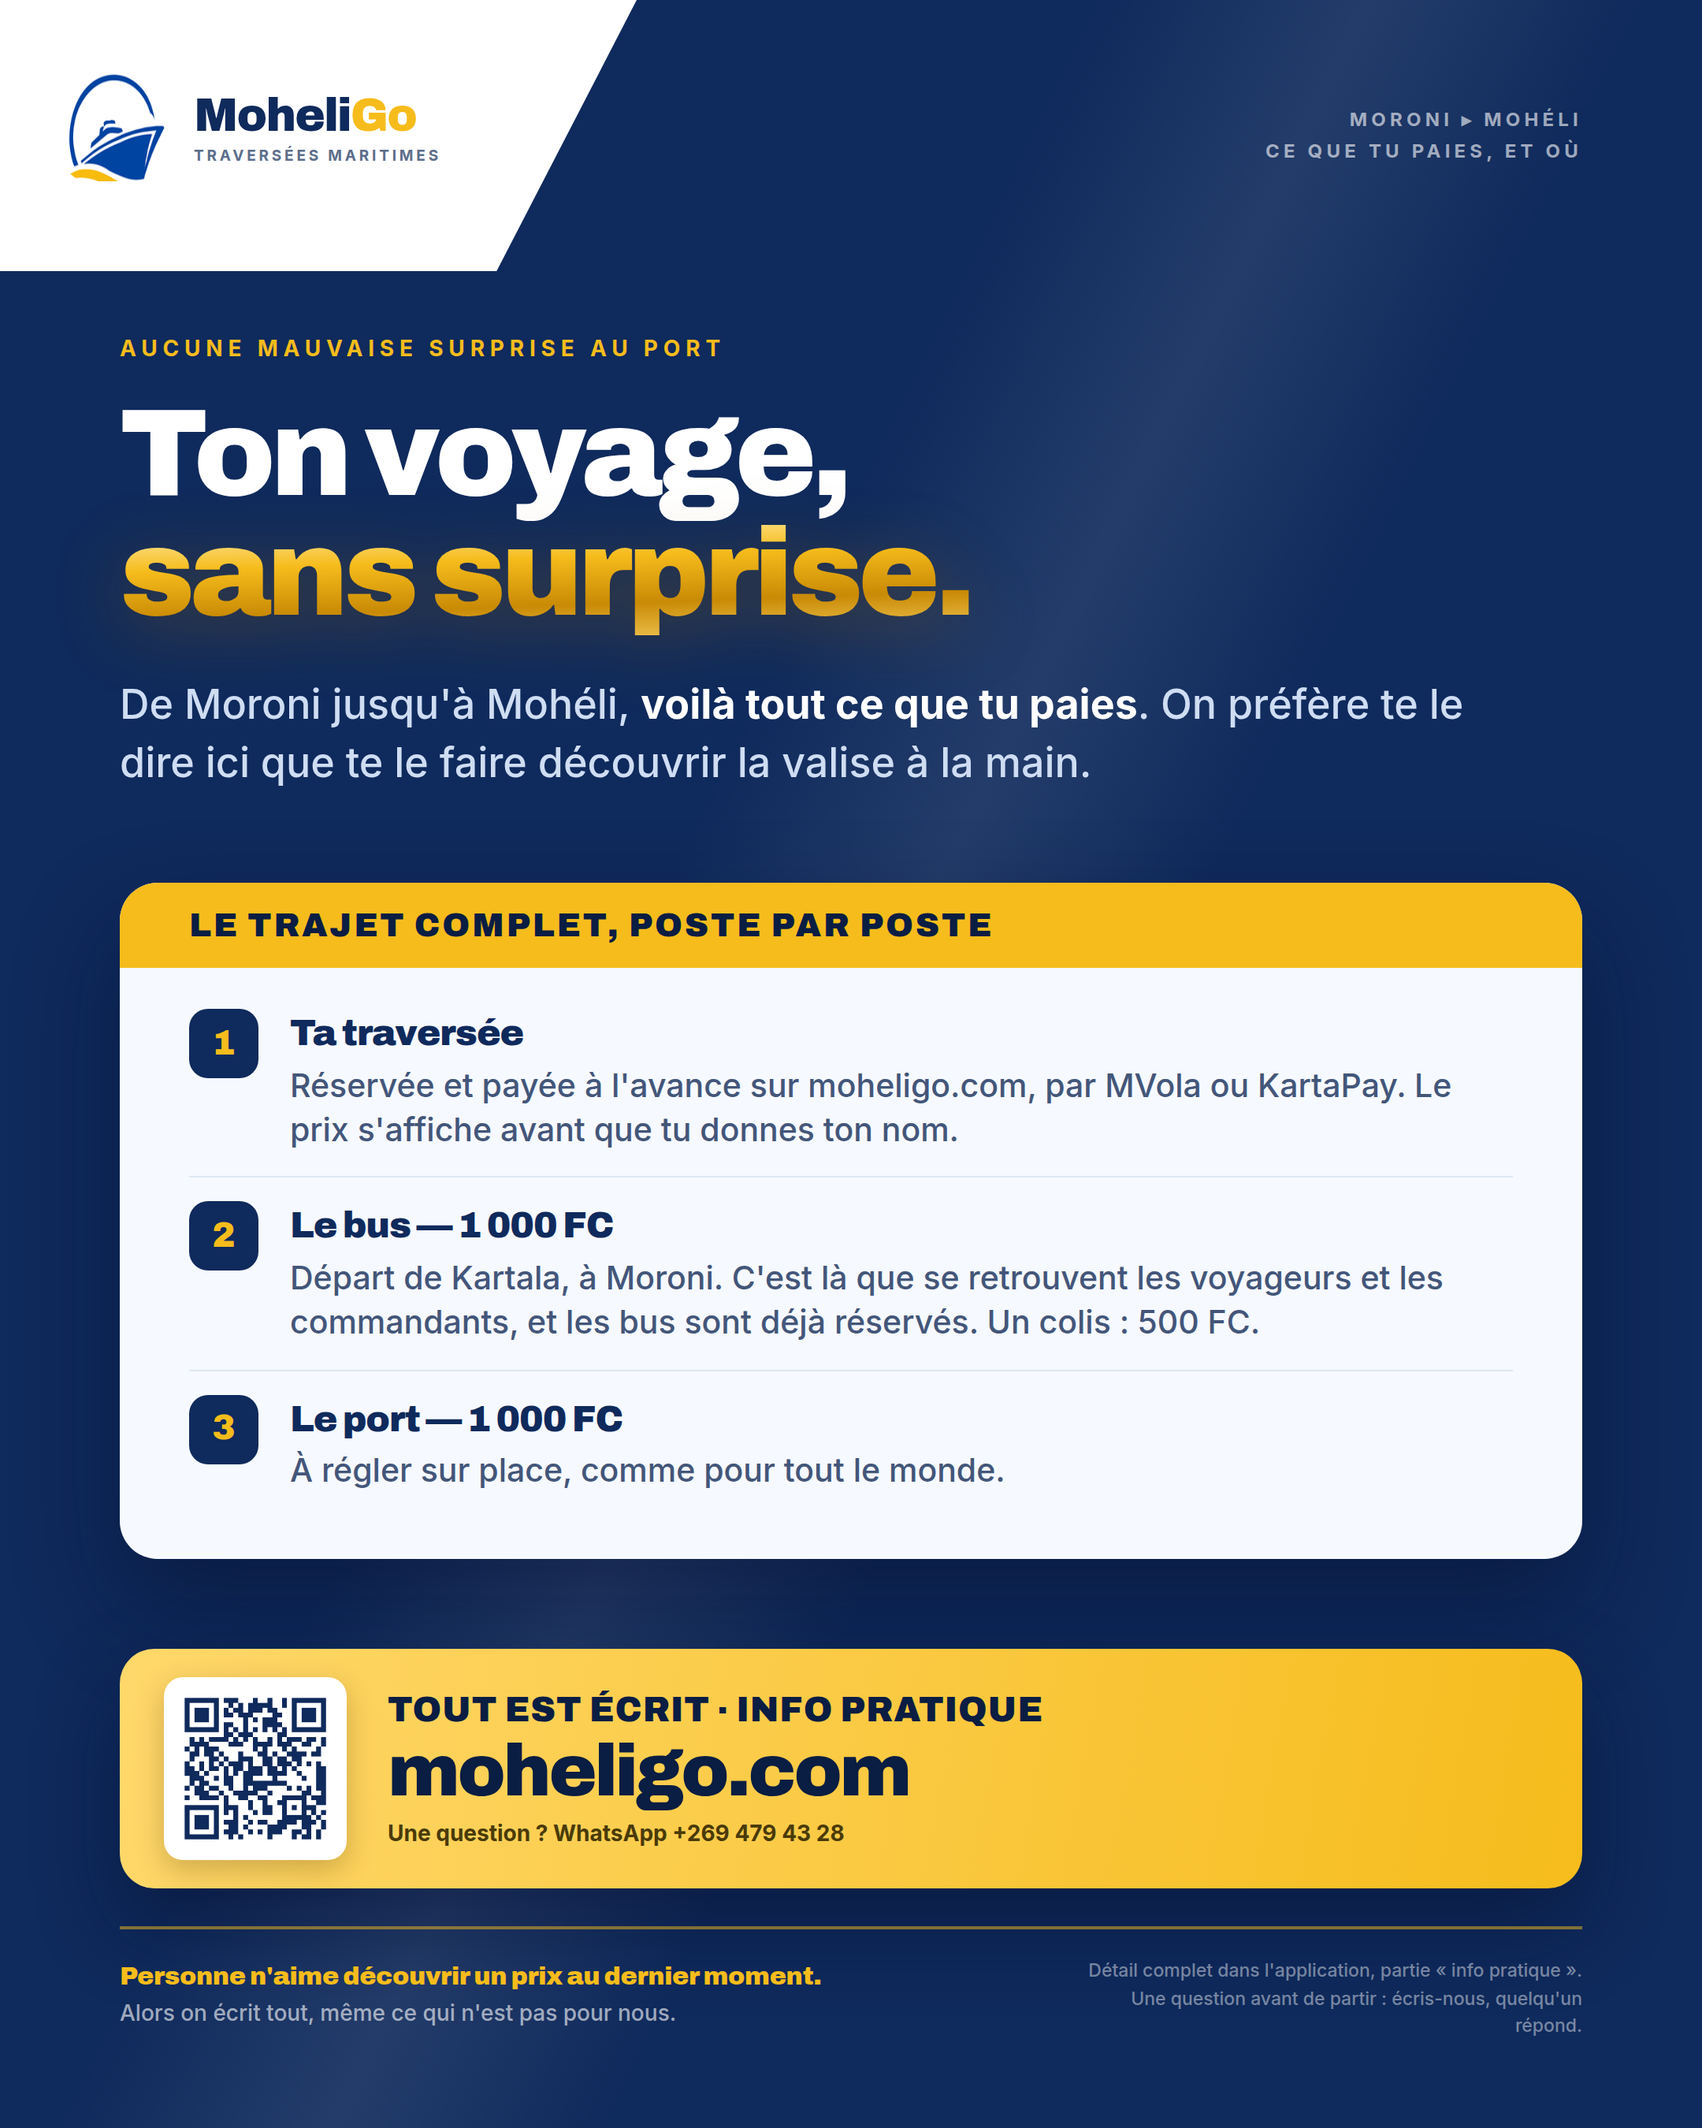
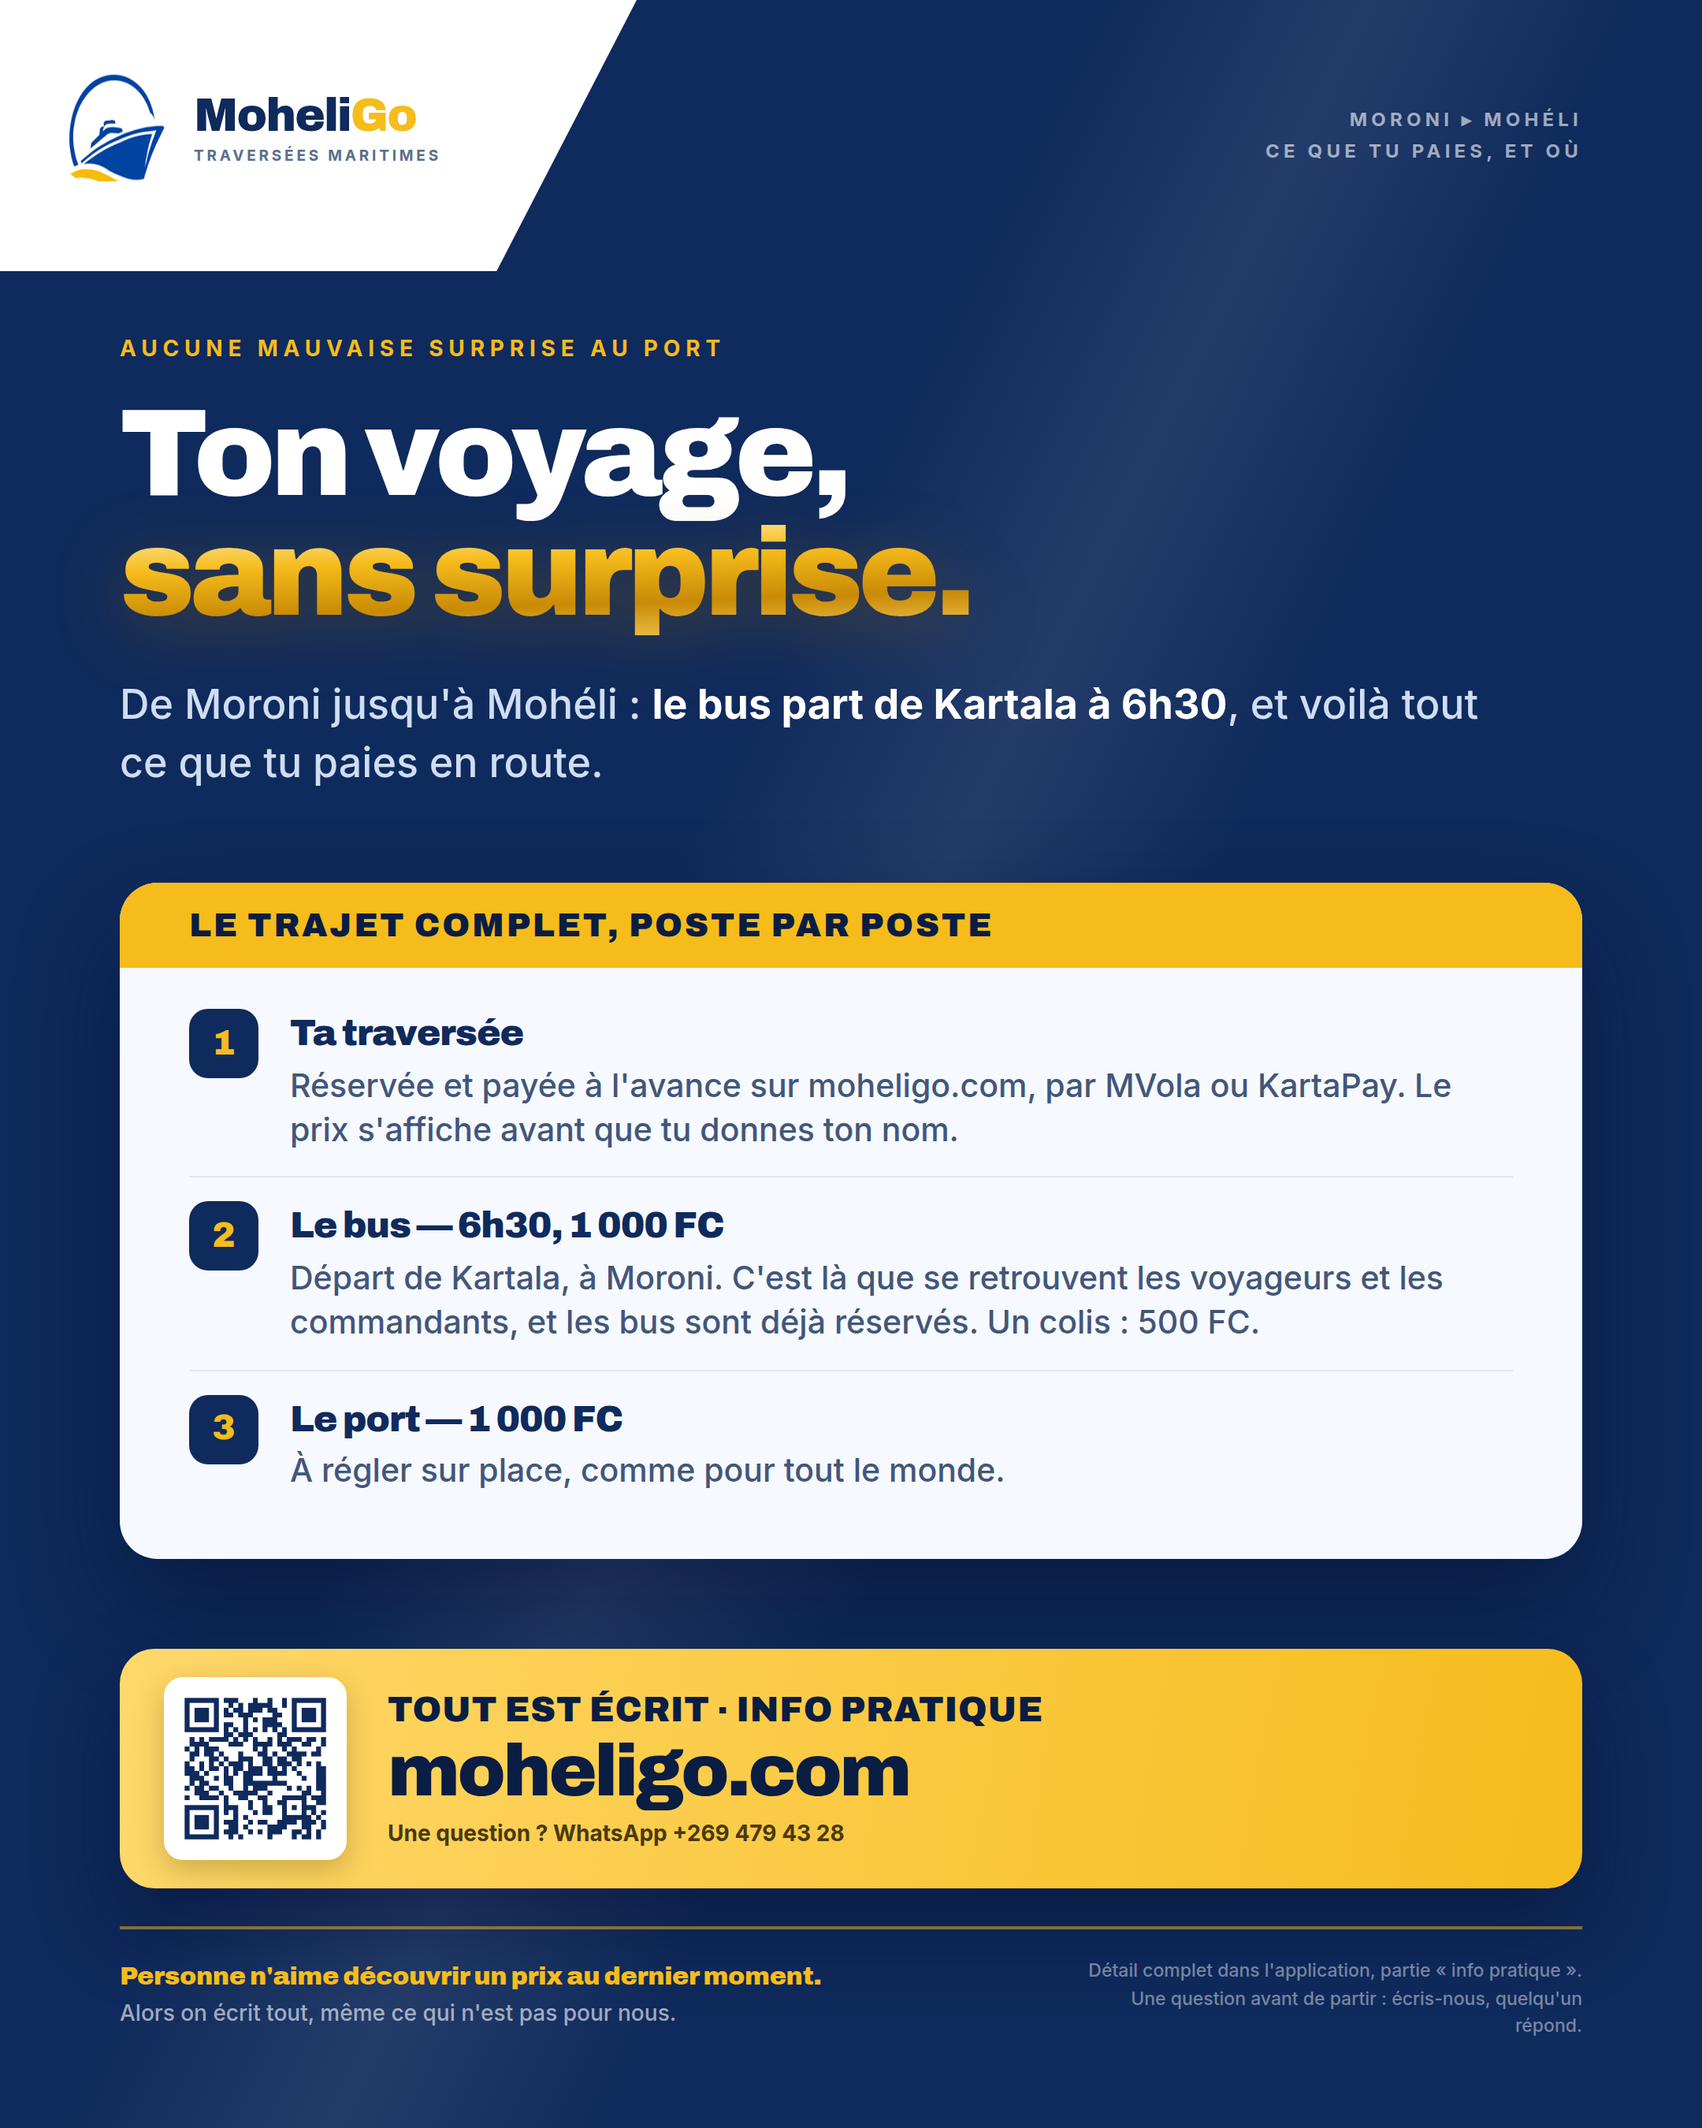
L'heure du bus est 6h30 — et l'attente a evite une vraie erreur
Le patron tranche : le bus part a 6h30.

Dans la conversation WhatsApp montree plus tot, la reponse donnee au client etait
« 7h00 » — qui est en fait l'heure de la VEDETTE, celle imprimee sur la carte
d'embarquement. Un voyageur arrive a 7h a Kartala aurait rate son bus, et sa
traversee avec. Si j'avais imprime « 7h00 » sur un visuel diffuse a des centaines
de personnes, on aurait industrialise l'erreur.

- flyer37-vraiprix distingue desormais les deux heures : 6h30 le bus, l'heure du
  billet la vedette. L'accroche du texte de publication porte l'heure.
- la regle du § 11 (jamais un horaire dont on n'est pas sur) vient de payer pour
  la premiere fois de facon mesurable, et c'est ecrit dans la memoire.
- second enseignement consigne : repondre a la main cent fois finit par produire
  une erreur. Une information juste, ecrite une fois au bon endroit, vaut mieux
  que cent reponses de memoire.

Claude-Session: https://claude.ai/code/session_01BYJ87ihntXtVLQBUE1Jkoy

Changed region(s): [[0.062, 0.3111, 0.8685, 0.3733], [0.2792, 0.56, 0.4343, 0.5911]]

diff --git a/moheligo/pub/flyers/flyer37-vraiprix-fb.html b/moheligo/pub/flyers/flyer37-vraiprix-fb.html
@@ -20,10 +20,14 @@
      renonce en lisant ce visuel aurait renoncé au port — en colère, et en le
      racontant. La clarté ne fait pas fuir : c'est l'inconnu qui fait fuir.
 
-     ⚠ AUCUNE HEURE SUR CE VISUEL. Le patron a répondu « 7h00 » à la question
-     « le bus part à quelle heure ? », mais la carte d'embarquement affiche aussi
-     07:00 pour la vedette : je ne sais pas si c'est la même heure ou une
-     confusion. On n'imprime pas un horaire dont on n'est pas sûr (§ 11).
+     ✅ L'HEURE, TRANCHÉE PAR LE PATRON LE 23/08/2026 : **le bus part à 6h30**.
+     J'avais eu raison d'attendre : dans la conversation WhatsApp, la réponse
+     donnée au client était « 7h00 » — qui est en réalité l'heure de la VEDETTE,
+     celle imprimée sur la carte d'embarquement. Un client qui serait arrivé à 7h
+     à Kartala aurait raté son bus, et sa traversée avec.
+     ⚠ C'est exactement pourquoi on n'imprime jamais un horaire dont on n'est
+     pas sûr (§ 11) — et pourquoi une heure juste, écrite une fois, vaut mieux
+     que cent réponses données à la main.
 
      📌 CE VISUEL EST PROVISOIRE : si le patron décide le forfait tout compris
      (un seul paiement en ligne), il faudra le refaire — et ce sera une bien
@@ -124,8 +128,8 @@ body { width:1080px; height:1350px; font-family:'Inter',sans-serif; -webkit-font
   <div class="sur">AUCUNE MAUVAISE SURPRISE AU PORT</div>
   <div class="acc">Ton voyage,<span>sans surprise.</span></div>
 
-  <div class="dit">De Moroni jusqu'à Mohéli, <b>voilà tout ce que tu paies</b>.
-    On préfère te le dire ici que te le faire découvrir la valise à la main.</div>
+  <div class="dit">De Moroni jusqu'à Mohéli : <b>le bus part de Kartala à
+    6h30</b>, et voilà tout ce que tu paies en route.</div>
 
   <div class="carte">
     <div class="bande">LE TRAJET COMPLET, POSTE PAR POSTE</div>
@@ -134,9 +138,9 @@ body { width:1080px; height:1350px; font-family:'Inter',sans-serif; -webkit-font
         <li><em>1</em><span><b>Ta traversée</b>Réservée et payée à l'avance sur
           moheligo.com, par MVola ou KartaPay. Le prix s'affiche avant que tu
           donnes ton nom.</span></li>
-        <li><em>2</em><span><b>Le bus — 1 000 FC</b>Départ de Kartala, à Moroni.
-          C'est là que se retrouvent les voyageurs et les commandants, et les bus
-          sont déjà réservés. Un colis : 500 FC.</span></li>
+        <li><em>2</em><span><b>Le bus — 6h30, 1 000 FC</b>Départ de Kartala, à
+          Moroni. C'est là que se retrouvent les voyageurs et les commandants, et
+          les bus sont déjà réservés. Un colis : 500 FC.</span></li>
         <li><em>3</em><span><b>Le port — 1 000 FC</b>À régler sur place, comme
           pour tout le monde.</span></li>
       </ul>

diff --git a/moheligo/pub/flyers/page.py b/moheligo/pub/flyers/page.py
@@ -240,8 +240,8 @@ Prévision Open-Meteo Marine.
 
 #MoheliGo #Comores #Mohéli #MétéoMer #Sécurité"""),
     dict(png='flyer-vraiprix-facebook.png', titre='🔥 JEUDI — LE VRAI PRIX DU VOYAGE',
-         note="Sans date · publie le jeudi<br>une semaine sur deux<br>né d'une VENTE PERDUE : « on paie tout<br>ici ? » — non — « ça ne vaut pas la peine »<br>aucune heure (non vérifiée)<br>⚠ à refaire si le forfait tout compris arrive",
-         texte="DE MORONI À MOHÉLI : VOILÀ TOUT CE QUE TU PAIES.\n\nPersonne n'aime découvrir un prix au dernier moment, la valise à la main. Alors\non écrit tout — même ce qui ne va pas dans notre poche.\n\n1. TA TRAVERSÉE.\nRéservée et payée à l'avance sur moheligo.com, par MVola ou KartaPay. Le prix\ns'affiche avant même que tu donnes ton nom.\n\n2. LE BUS : 1 000 FC.\nLe départ se fait de Kartala, à Moroni. C'est là que se retrouvent les voyageurs\net les commandants, et les bus sont déjà réservés. Si tu as un colis : 500 FC\npar colis.\n\n3. LE PORT : 1 000 FC.\nÀ régler sur place, comme pour tout le monde.\n\nC'est tout. Rien d'autre ne t'attend en route.\n\nLe détail complet est dans l'application, partie « info pratique ». Et si une\nquestion te reste, écris-nous avant de partir : quelqu'un répond.\n\nmoheligo.com — WhatsApp +269 479 43 28\n\n#MoheliGo #Comores #Mohéli #Moroni #Traversée"),
+         note="Sans date · publie le jeudi<br>une semaine sur deux<br>né d'une VENTE PERDUE : « on paie tout<br>ici ? » — non — « ça ne vaut pas la peine »<br>bus 6h30 · vedette : voir le billet<br>⚠ à refaire si le forfait tout compris arrive",
+         texte="LE BUS PART À 6H30 DE KARTALA. ET VOILÀ TOUT CE QUE TU PAIES EN ROUTE.\n\nPersonne n'aime découvrir un prix au dernier moment, la valise à la main. Alors\non écrit tout — même ce qui ne va pas dans notre poche.\n\n1. TA TRAVERSÉE.\nRéservée et payée à l'avance sur moheligo.com, par MVola ou KartaPay. Le prix\ns'affiche avant même que tu donnes ton nom.\n\n2. LE BUS : DÉPART 6H30, 1 000 FC.\nLe bus part de Kartala, à Moroni, à 6h30. C'est là que se retrouvent les\nvoyageurs et les commandants, et les bus sont déjà réservés par eux. Si tu as un\ncolis : 500 FC par colis.\n\n⚠ Retiens bien 6h30 : c'est l'heure du BUS. L'heure inscrite sur ton billet,\nelle, est celle de la vedette.\n\n3. LE PORT : 1 000 FC.\nÀ régler sur place, comme pour tout le monde.\n\nC'est tout. Rien d'autre ne t'attend en route.\n\nLe détail complet est dans l'application, partie « info pratique ». Et si une\nquestion te reste, écris-nous avant de partir : quelqu'un répond.\n\nmoheligo.com — WhatsApp +269 479 43 28\n\n#MoheliGo #Comores #Mohéli #Moroni #Traversée"),
     dict(png='flyer-quelquun-facebook.png', titre="🔥 MERCREDI — Y A-T-IL QUELQU'UN ?",
          note="Sans date · publie le mercredi<br>une semaine sur deux<br>né d'une vraie cliente : elle a appelé<br>AVANT de payer pour être sûre<br>qu'un humain existait<br>le blocage nº1, et il n'est pas technique",
          texte="TU VEUX ÊTRE SÛR QU'IL Y A QUELQU'UN DERRIÈRE ? C'EST NORMAL. ALORS APPELLE AVANT DE PAYER.\n\nPayer en ligne quelqu'un qu'on ne connaît pas, ça se réfléchit. On ne va pas te\ndire « fais-nous confiance » : on va te donner de quoi vérifier.\n\nÉCRIS OU APPELLE, MAINTENANT.\nWhatsApp +269 479 43 28. Quelqu'un répond — pas un robot, pas un répondeur. Pose\ntoutes tes questions avant de sortir un franc. Ça ne nous dérange pas : c'est le\ntravail.\n\nREGARDE TON BILLET.\nLe nom du commandant y est écrit. Tu sais qui pilote avant de monter à bord.\n\nET SI LA TRAVERSÉE NE PART PAS.\nChanger la date est gratuit, et tu es remboursé tant que la traversée n'est pas\npartie. Ton argent n'est jamais coincé chez nous.\n\nUNE ENTREPRISE COMORIENNE, AVEC DES GENS DEDANS.\nOn préfère répondre à dix questions plutôt que d'encaisser un doute.\n\nmoheligo.com — WhatsApp +269 479 43 28\n\n#MoheliGo #Comores #Mohéli #Traversée #MVola"),

diff --git a/moheligo/dossier/QUESTIONS-CLIENTS.md b/moheligo/dossier/QUESTIONS-CLIENTS.md
@@ -52,10 +52,23 @@ répond** — alors qu'elle se pose à *chaque* voyageur de la Grande Comore.
 | **Le port** | **1 000 FC**, à régler sur place |
 | **Où c'est écrit** | dans l'application, partie **« info pratique »** |
 
-⚠ **L'heure reste inconnue.** Le patron a répondu « 7h00 » à la question du bus,
-mais la carte d'embarquement affiche aussi 07:00 pour la vedette : je ne sais pas
-si c'est la même heure ou une confusion. **Aucun horaire n'est imprimé nulle part
-tant que ce n'est pas tranché.**
+✅ **L'HEURE DU BUS : 6H30** (tranchée par le patron le 23/08/2026).
+
+🚨 **Et cette vérification a évité une vraie erreur.** Dans la conversation
+WhatsApp, la réponse donnée au client était **« 7h00 »** — qui est en fait
+l'heure de la **vedette**, celle imprimée sur la carte d'embarquement. Un
+voyageur qui serait arrivé à 7h à Kartala **aurait raté son bus, et sa traversée
+avec**.
+
+📌 **Deux enseignements, et ils valent pour tout le reste** :
+1. **On n'imprime jamais un horaire dont on n'est pas sûr** (§ 11 du manuel). Ici
+   l'attente a rapporté : le chiffre publié est juste.
+2. **Répondre à la main, cent fois, finit par produire une erreur.** Une heure
+   juste, écrite une fois pour toutes au bon endroit, vaut mieux que cent
+   réponses données de mémoire à 16h un jour de fatigue.
+
+➡ **Il faut donc distinguer les deux heures partout** : **6h30 le bus**,
+**l'heure du billet la vedette**. C'est écrit ainsi sur `flyer37-vraiprix`.
 
 ---
 
@@ -194,7 +207,7 @@ là. Ces clientes **savaient** payer. Ce dont elles doutaient, c'était de **nou
 
 | Question du client | Répondue où ? | À faire |
 |---|---|---|
-| « Le bus part à quelle heure ? » | WhatsApp à la main | 🔴 **l'heure n'est toujours pas sûre** — à trancher avec le patron |
+| « Le bus part à quelle heure ? » | WhatsApp à la main, et **une fois de travers** | ✅ **6h30**, écrit sur `flyer37-vraiprix` — à mettre aussi dans l'app |
 | « À combien on paie pour le bus ? » | app, « info pratique » — pas lue | ✅ visuel `flyer37-vraiprix`, publie le jeudi |
 | **« Est-ce qu'on paie tout ici ? »** *(vente perdue)* | non — et le client a renoncé | 🔴 **décision du forfait tout compris**, en attente |
 | « C'est ainsi ? » *(en montrant son billet)* | WhatsApp | 💡 le client doute que son billet soit valable : un mot de confirmation automatique après paiement lèverait ce doute |

diff --git a/moheligo/dossier/MEMOIRE.md b/moheligo/dossier/MEMOIRE.md
@@ -370,6 +370,23 @@ recharger ce sujet ici, ce n'est pas du marketing.
 
 ## 6. Journal des sessions
 
+- **23/08/2026 (⏰ L'HEURE DU BUS : 6H30 — et l'erreur que l'attente a évitée)** —
+  Le patron tranche : **le bus part à 6h30**.
+  🚨 **Ça valide une prudence qui aurait pu passer pour de la lenteur.** Dans la
+  conversation WhatsApp montrée plus tôt, la réponse donnée au client était
+  **« 7h00 »** — qui est en réalité l'heure de la **vedette**, celle imprimée sur
+  la carte d'embarquement. **Un voyageur arrivé à 7h à Kartala aurait raté son
+  bus, et sa traversée avec.** Si j'avais imprimé « 7h00 » sur un visuel diffusé
+  à des centaines de personnes, on aurait industrialisé l'erreur.
+  📌 **La règle du § 11 (« jamais un horaire dont on n'est pas sûr ») vient de
+  payer pour la première fois de façon mesurable.**
+  📌 **Et un second enseignement** : répondre à la main, cent fois, finit
+  toujours par produire une erreur — un soir de fatigue, on donne l'heure de
+  l'autre chose. **Une information juste, écrite une fois au bon endroit, vaut
+  mieux que cent réponses de mémoire.**
+  ✅ `flyer37-vraiprix` distingue désormais explicitement les deux heures :
+  **6h30 le bus, l'heure du billet la vedette.**
+
 - **23/08/2026 (🔴 UNE VENTE PERDUE DONT ON CONNAÎT LA PHRASE EXACTE — et ce
   qu'elle vaut)** — Le patron donne les faits du trajet terrestre **et** raconte
   un appel : *« est-ce qu'on paie tous ces frais ici ? comme ça on va juste
